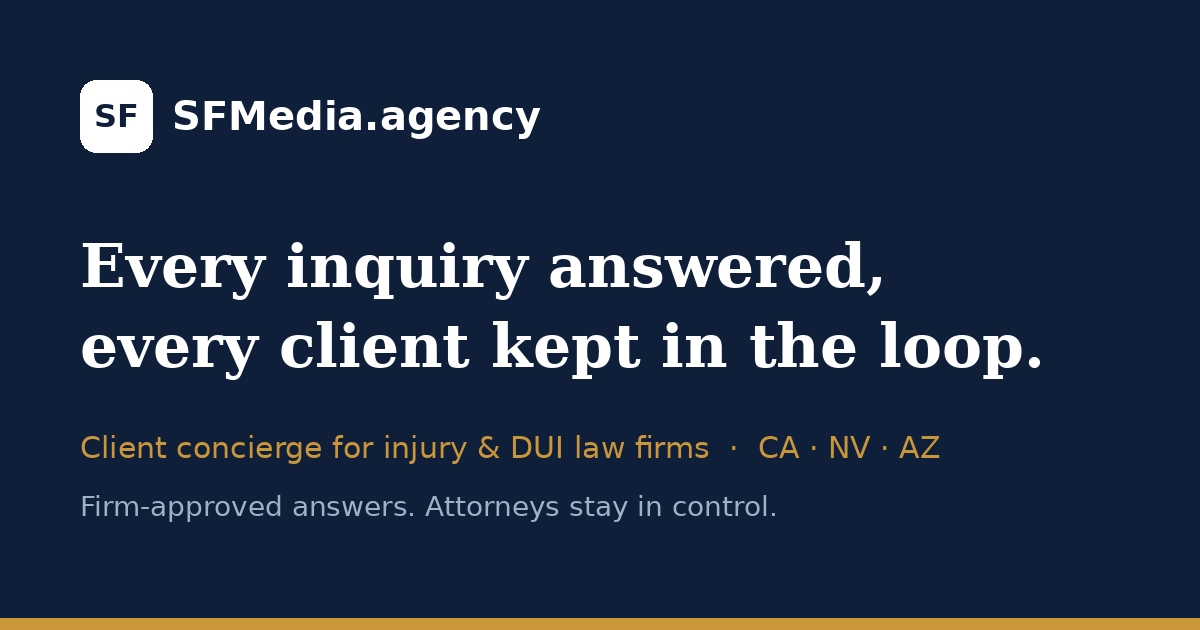
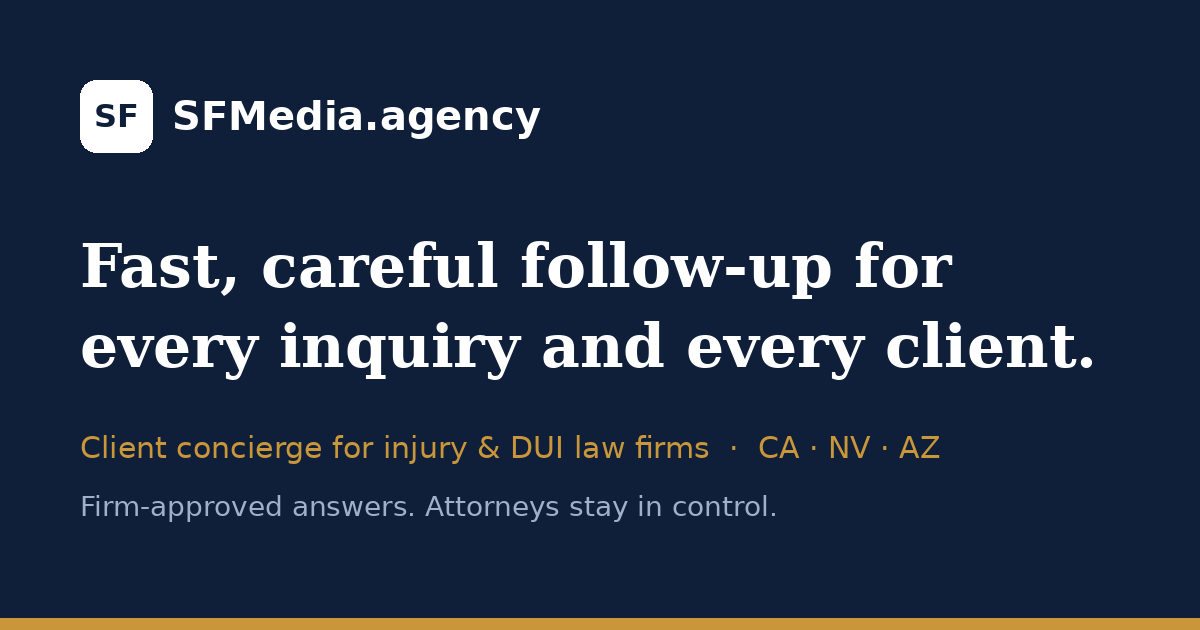
Soften hero and problem copy

Changed region(s): [[0.2158, 0.5127, 0.925, 0.6032], [0.0925, 0.3619, 0.8017, 0.4825]]

diff --git a/index.html b/index.html
@@ -45,7 +45,7 @@
   <div class="wrap hero-grid">
     <div>
       <p class="eyebrow">Client concierge for injury &amp; DUI law firms &middot; CA &middot; NV &middot; AZ</p>
-      <h1>Every inquiry answered, every client kept in the loop.</h1>
+      <h1>Fast, careful follow-up for every inquiry and every client.</h1>
       <p class="lead">SFMedia.agency helps injury and DUI firms stop losing potential clients to avoidable logistics slips: slow replies, missed after-hours messages, scheduling back-and-forth, no-shows and clients who go quiet. Your attorneys stay in control.</p>
       <div class="cta-row">
         <a class="btn" href="mailto:john@number0ne.com?subject=Walkthrough%20request%3A%20client%20concierge&amp;body=Firm%20name%3A%0AState(s)%3A%0ABest%20time%20to%20talk%3A%0A">Request a walkthrough</a>
@@ -66,7 +66,7 @@
   <div class="wrap narrow">
     <p class="eyebrow">The problem</p>
     <h2>Missed inquiries cost cases.</h2>
-    <p>People looking for an injury or DUI lawyer are often stressed and contacting more than one firm. When a reply is slow or a call goes unanswered, many simply move on. Most of these losses have nothing to do with the quality of your legal work. They come from logistics:</p>
+    <p>People looking for an injury or DUI lawyer are often stressed and may be contacting more than one firm. When a reply is slow or a call goes unanswered, some move on. Most of these losses have nothing to do with the quality of your legal work. They come from logistics:</p>
     <ul class="grid-list">
       <li><strong>Slow replies</strong> to web forms and emails on busy court days.</li>
       <li><strong>After-hours messages</strong> that sit until morning.</li>
